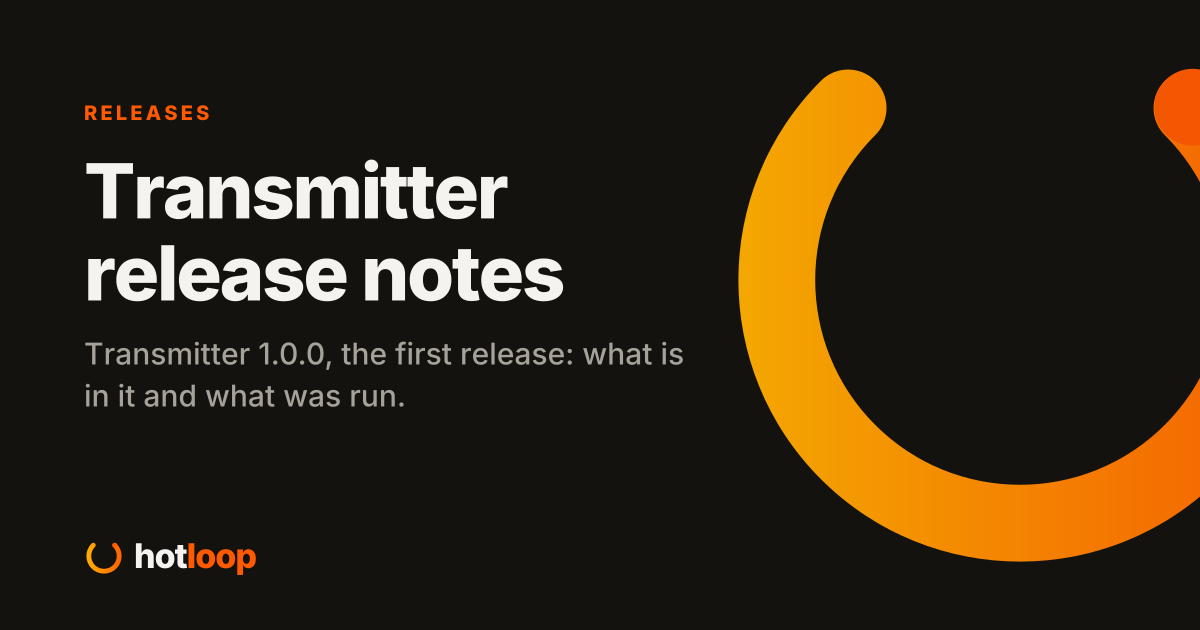
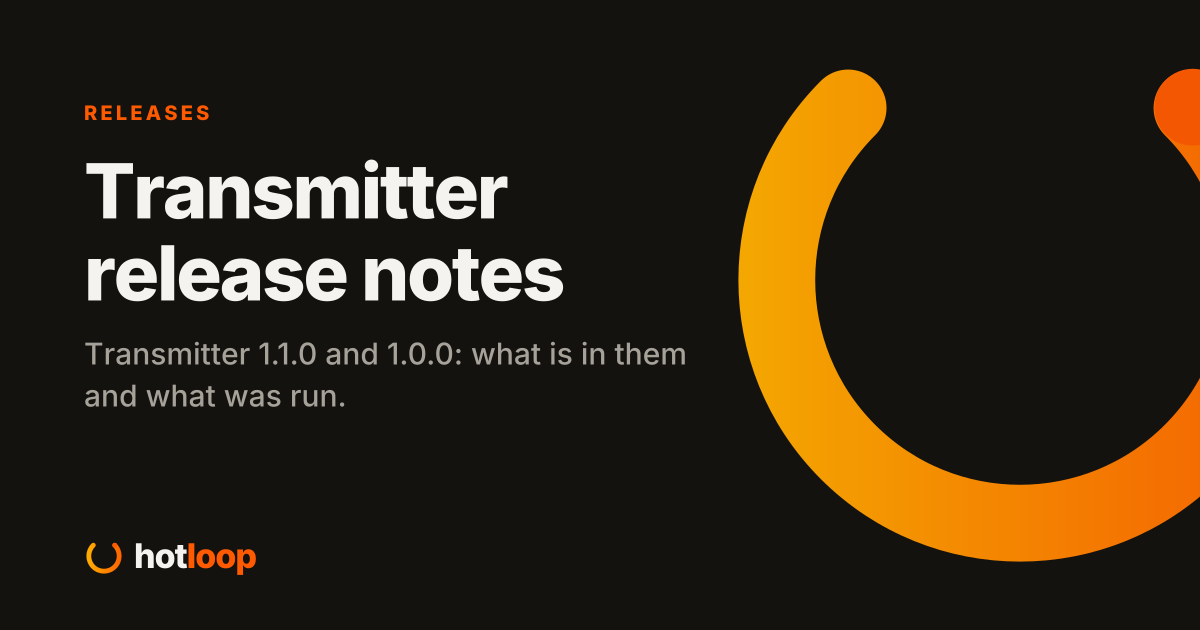
feat(site): hotloop transmitter 1.1.0 is out, with timestamps and a codesys package (#51)
the transmitter page moves to 1.1.0 with its release notes beside 1.0.0 and the downloads in the new folder on hotloop.io. the proof table says what ran for the timestamps and the package, and what did not.

Changed region(s): [[0.0617, 0.5429, 0.5858, 0.6635]]

diff --git a/src/lib/products.ts b/src/lib/products.ts
@@ -156,12 +156,12 @@ export const GATEWAY_FEATURES: Feature[] = [
 export const CASCADE = '1.0.2';
 
 // HotLoop Transmitter is its own release line: a CODESYS library (HotLoop-io/hotloop-transmitter)
-// that publishes PLC values as OPC UA PubSub. 1.0.0 shipped on 2026-11-04. The repository is private,
+// that publishes PLC values as OPC UA PubSub. 1.1.0 shipped on 2026-11-04 (1.0.0 the same day). The repository is private,
 // so the files are served from hotloop.io/hotloop-transmitter/<version>/ the way the charts are
 // (that repository's gh-pages branch). Change `version` here and in the release note when the next one ships.
 export const TRANSMITTER = {
   released: true,
-  version: '1.0.0',
+  version: '1.1.0',
   downloads: 'https://hotloop.io/hotloop-transmitter/',
 };
 if (TRANSMITTER.released && !TRANSMITTER.version) {

diff --git a/src/content/releases/transmitter/1.1.0.md b/src/content/releases/transmitter/1.1.0.md
@@ -1,0 +1,25 @@
+---
+product: transmitter
+version: "1.1.0"
+date: 2026-11-04
+published: true
+summary: "Every message now carries a timestamp from the PLC's clock, and the library installs through the CODESYS Installer from a .package."
+highlights:
+  - "Timestamps, on by default. The NetworkMessage and the DataSetMessage each carry the same DateTime, read from the PLC's real-time clock once per message. A message is 17 bytes longer, and the fields and values did not move."
+  - "bTimestamp := FALSE sends exactly the 1.0.0 bytes. Pin that if a receiver of yours refuses timestamps. The lab checked it."
+  - "The resolution is one second. The clock is read with SysTimeRtc, which is whole seconds, so a receiver sees the same stamp on every message inside a second. Sub-second stamps are on the roadmap."
+  - "A new output, diLastClockResult. If the clock cannot be read the message goes out unstamped, which Part 14 allows, and this says why."
+  - "A new system library, SysTimeRtc, which the runtime provides. Control for Linux SL 4.22.0.0 does. A target without it cannot use 1.1.0 with timestamps, so stay on 1.0.0."
+  - "A CODESYS .package, made by CODESYS's own PackageManagerCLI, that puts the same library into the repository through the Installer. It is the same library as the .library file."
+breaking: []
+---
+
+A subscriber that wants to know when a value was sampled now gets it from the packet instead of guessing from when it arrived, and you can install the library through the CODESYS Installer like any other add-on.
+
+What was run, on The Beast against CODESYS Control for Linux SL 4.22.0.0 in a container: the library and the example build with 0 errors and 0 warnings in CODESYS 3.5.22.30. Two publishers, Variant and RawData, with timestamps on, and every value equals what the PLC reports over its own OPC UA server. Every message has both timestamps, the same instant, never going backwards, and over an 11 second capture the stamp moved 11 seconds. open62541 1.4.9 reads both timestamps of all 113 messages of each writer. HotLoop core's subscriber, from its main branch and not in a core release yet, reads both publishers with every reading carrying the publisher's timestamp as its time. The package installs through PackageManagerCLI and the example builds against it. On a 20 ms task with two publishers the block adds about 9.6 microseconds per cycle on average, and the longest cycle in the run was 81 microseconds.
+
+What was not run: any physical controller, any runtime but Control for Linux SL 4.22.0.0, a controller whose real-time clock is unset or wrong (the block would stamp what the clock says), the package in the IDE's own Package Manager window, multicast, a runtime that loses and regains its network, and the end of the two hour demo window.
+
+Not in this release: KeepAlive and Delta Frames, more than one DataSetMessage per NetworkMessage, WSTRING, a per-field status, sub-second timestamps, message security, and the subscriber side. A PLC project pinned to 1.0.0 keeps working and keeps sending the 1.0.0 bytes.
+
+Download `HotLoopTransmitter-1.1.0.library`, the `.compiled-library` or the `.package` from [hotloop.io/hotloop-transmitter/1.1.0/](https://hotloop.io/hotloop-transmitter/1.1.0/HotLoopTransmitter-1.1.0.library), check them against `SHA256SUMS` in the same folder, and see the [install page](https://docs.hotloop.io/transmitter/install/).
